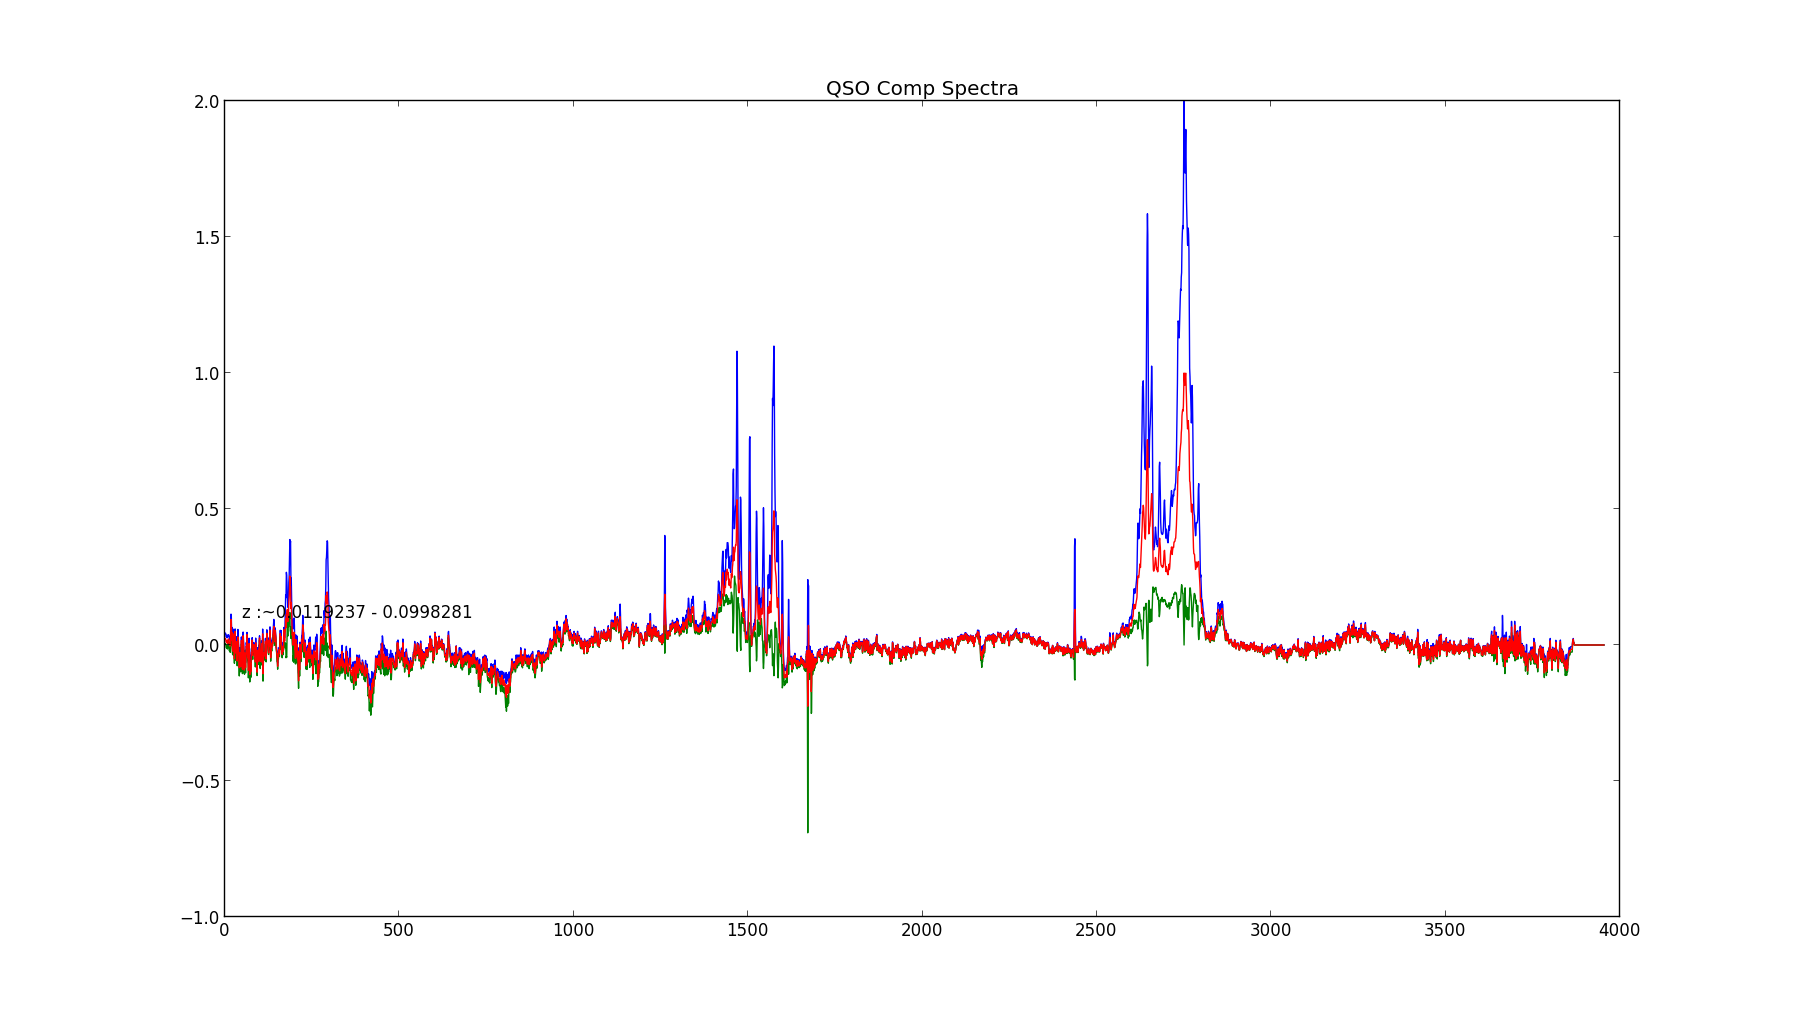
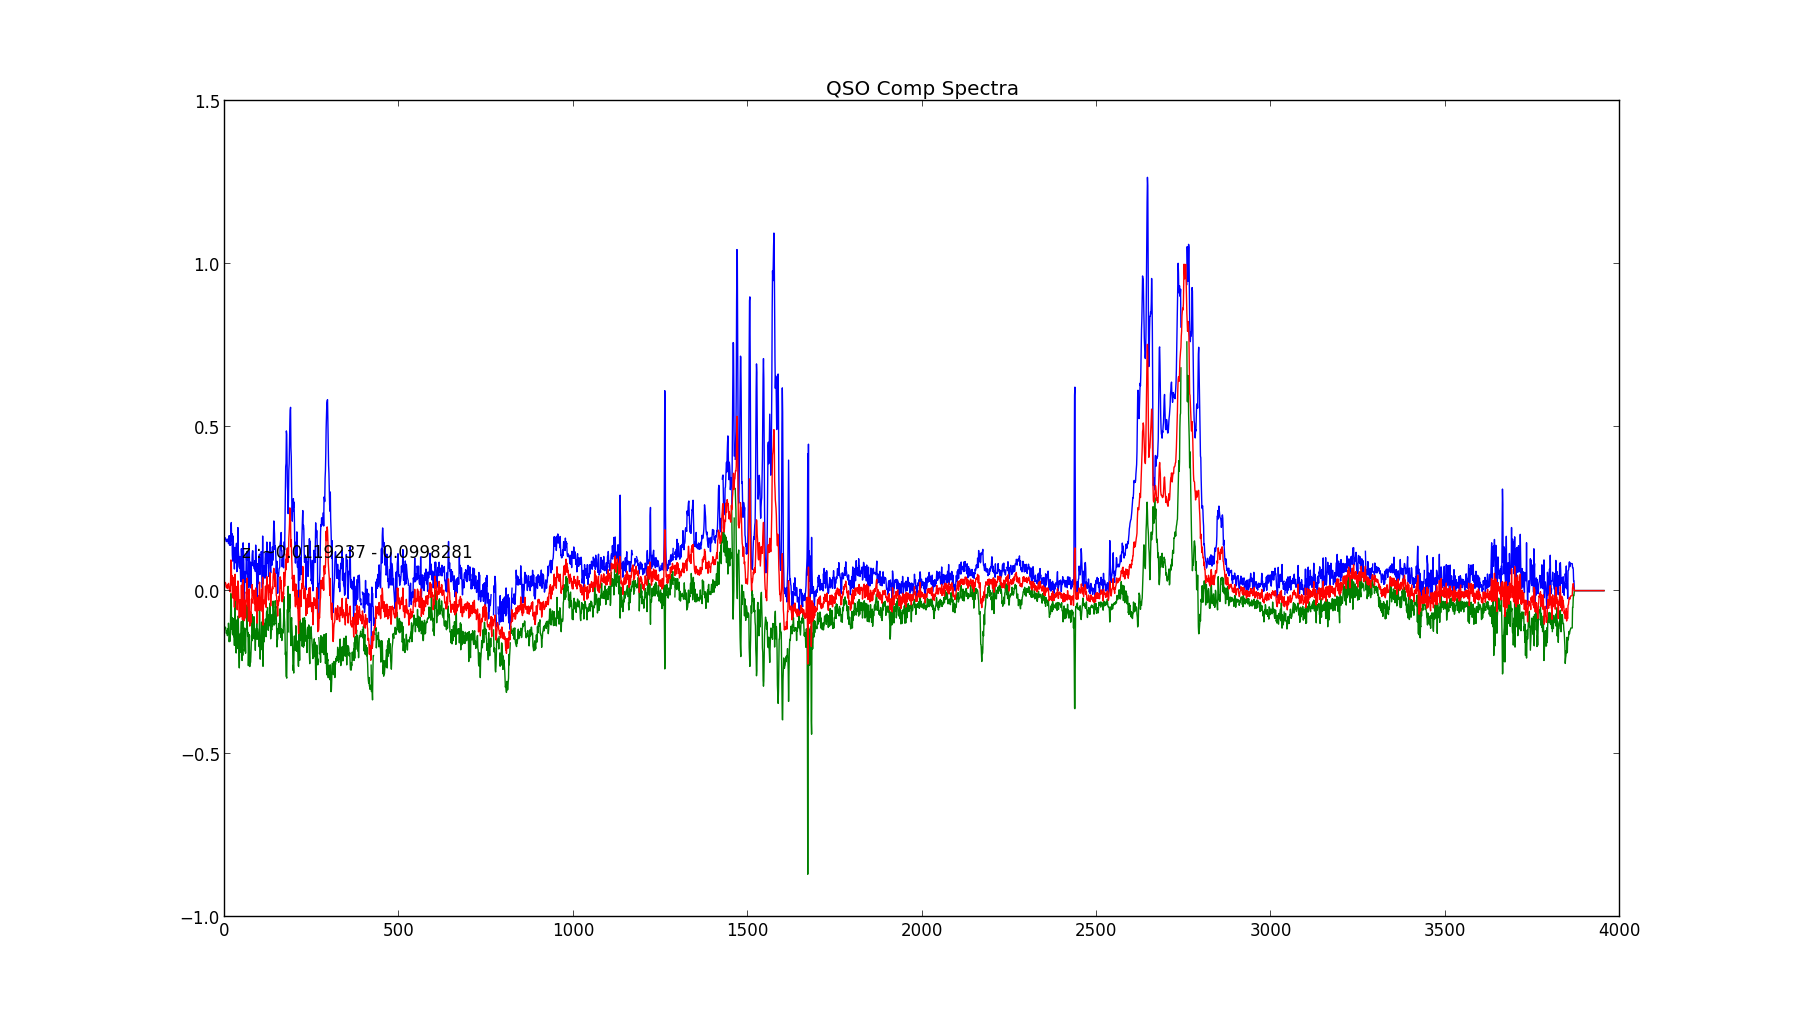
making actual sigmas. wow. much stats.

Changed region(s): [[0.1244, 0.2434, 0.9022, 0.6997]]

diff --git a/comp.py b/comp.py
@@ -24,6 +24,7 @@ for spec_file in spec_files:
     #Read in spectral data
     hdulist = fits.open(spec_file)
     spec = hdulist[0].data[1]
+
     zs.append(hdulist[0].header['z'])
 
     #Normalize
@@ -60,8 +61,9 @@ spec_mean_squares = spec_sum_squares / len(specs)
 spec_mean_squares_norm = spec_mean_squares * 1/max(spec_mean_squares)
 
 #Calculate Sigmas
-spec_sigma_max = spec_comp_norm + spec_mean_squares_norm
-spec_sigma_min = spec_comp_norm - spec_mean_squares_norm
+sigma = np.sqrt(spec_mean_squares_norm - spec_comp_norm**2)
+spec_sigma_max = spec_comp_norm + sigma
+spec_sigma_min = spec_comp_norm - sigma
 
 #Lets plot something.. just for looks
 pylab.plot(spec_sigma_max, color="blue")
